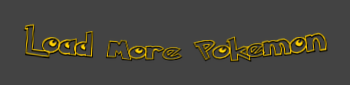
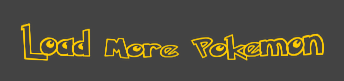
new loade more buttom

Changed region(s): [[0.0581, 0.2716, 0.5233, 0.7654], [0.5523, 0.3704, 0.9593, 0.7407]]

diff --git a/script.js b/script.js
@@ -9,24 +9,17 @@ let singleBaseStats = [];
 
 async function loadPokemon() {
     for (let i = firstPokemon; i <= lastPokemon; i++) {
-
         let url = `https://pokeapi.co/api/v2/pokemon/${i}`;
-        // let url = 'https://pokeapi.co/api/v2/pokemon/charmeleon';
-        // let url = 'https://pokeapi.co/api/v2/pokemon/charizard';
-
         let response = await fetch(url);
         currentPokemon = await response.json();
         allPokemons.push(currentPokemon);
-        console.log('Loaded pokemon', currentPokemon);
     }
     renderPokemonInfo();
 }
 
-
 function renderPokemonInfo() {
     for (let j = 0; j < allPokemons.length; j++) {
         createCard(j);
-
         document.getElementById(`pokeName${j}`).innerHTML = allPokemons[j]['name'].charAt(0).toUpperCase() + allPokemons[j]['name'].slice(1);
         document.getElementById(`pokeimg${j}`).src = allPokemons[j]['sprites']['other']['official-artwork']['front_default'];
         document.getElementById(`pokeNumber${j}`).innerHTML = '# ' + allPokemons[j]['id'];
@@ -34,14 +27,11 @@ function renderPokemonInfo() {
         if (allPokemons[j]['types'].length === 2) {
             document.getElementById(`types${j}`).innerHTML += /*html*/ `<p class="type" id="type2_${j}"></p>`;
             document.getElementById(`type2_${j}`).innerHTML = allPokemons[j]['types'][1]['type']['name'].charAt(0).toUpperCase() + allPokemons[j]['types'][1]['type']['name'].slice(1);
-
         }
         typeColors(j);
-
     }
     closeLoadingScreen();
 }
-
 
 function singlePokemon(j) {
     const selectedPokemon = allPokemons[j];
@@ -58,29 +48,23 @@ function renderSinglePokemon(j) {
         document.getElementById(`singlePokeName`).innerHTML = allPokemons[j]['name'].charAt(0).toUpperCase() + allPokemons[j]['name'].slice(1);
         document.getElementById(`singlePokeimg`).src = allPokemons[j]['sprites']['other']['official-artwork']['front_default'];
         document.getElementById(`singlePokeNumber`).innerHTML = '# ' + allPokemons[j]['id'];
-
         document.getElementById(`singleType`).innerHTML = allPokemons[j]['types'][0]['type']['name'].charAt(0).toUpperCase() + allPokemons[j]['types'][0]['type']['name'].slice(1);
         singleTypeColors(j, 'singlePokedex', 'singleType');
-
         if (allPokemons[j]['types'].length === 2) {
             document.getElementById(`singleTypes`).innerHTML += /*html*/ `<p class="singleType" id="singleType2"></p>`;
             document.getElementById(`singleType2`).innerHTML = allPokemons[j]['types'][1]['type']['name'].charAt(0).toUpperCase() + allPokemons[j]['types'][1]['type']['name'].slice(1);
             singleTypeColors(j, 'singlePokedex', 'singleType2');
         }
-
         let frontShinyPath = allPokemons[j]['sprites']['other']['official-artwork']['front_shiny'];
         shinyImg.push(frontShinyPath);
-
         let frontNormalPath = allPokemons[j]['sprites']['other']['official-artwork']['front_default'];
         normalImg.push(frontNormalPath);
-
         let baseStats = allPokemons[j]['stats'];
         singleBaseStats.push(baseStats);
     } else {
         document.getElementById(`singlePokeName`).innerHTML = searchPokemon[j]['name'].charAt(0).toUpperCase() + searchPokemon[j]['name'].slice(1);
         document.getElementById(`singlePokeimg`).src = searchPokemon[j]['sprites']['other']['official-artwork']['front_default'];
         document.getElementById(`singlePokeNumber`).innerHTML = '# ' + searchPokemon[j]['id'];
-
         document.getElementById(`singleType`).innerHTML = searchPokemon[j]['types'][0]['type']['name'].charAt(0).toUpperCase() + searchPokemon[j]['types'][0]['type']['name'].slice(1);
         singleTypeColors(j, 'singlePokedex', 'singleType');
 
@@ -89,13 +73,10 @@ function renderSinglePokemon(j) {
             document.getElementById(`singleType2`).innerHTML = searchPokemon[j]['types'][1]['type']['name'].charAt(0).toUpperCase() + searchPokemon[j]['types'][1]['type']['name'].slice(1);
             singleTypeColors(j, 'singlePokedex', 'singleType2');
         }
-
         let frontShinyPath = searchPokemon[j]['sprites']['other']['official-artwork']['front_shiny'];
         shinyImg.push(frontShinyPath);
-
         let frontNormalPath = searchPokemon[j]['sprites']['other']['official-artwork']['front_default'];
         normalImg.push(frontNormalPath);
-
         let baseStats = searchPokemon[j]['stats'];
         singleBaseStats.push(baseStats);
     }
@@ -107,20 +88,17 @@ function renderInfoAbout(j) {
     document.getElementById(`weight`).innerHTML = allPokemons[j]['weight'];
     document.getElementById(`abiOne`).innerHTML = allPokemons[j]['abilities'][0]['ability']['name'];
     document.getElementById(`abiTwo`).innerHTML = allPokemons[j]['abilities'][1]['ability']['name'];
-
 }
 
 function imgChange() {
     let pokemonImg = document.getElementById(`singlePokeimg`);
     let currentSrc = pokemonImg.src;
-
     if (normalImg.includes(currentSrc)) {
         pokemonImg.src = shinyImg[0];
     } else if (shinyImg.includes(currentSrc)) {
         pokemonImg.src = normalImg[0];
     }
 }
-
 
 function closeCard() {
     document.getElementById('single-card').classList.add("d-none");
@@ -144,9 +122,7 @@ async function loadMorePokemon() {
     firstPokemon += lastPokemon;
     let numberOfPokemonToLoad = 30;
     lastPokemon = numberOfPokemonToLoad;
-
     await pokemonFetchLoadMore(numberOfPokemonToLoad);
-
 }
 
 async function pokemonFetchLoadMore(numberOfPokemonToLoad) {
@@ -155,13 +131,11 @@ async function pokemonFetchLoadMore(numberOfPokemonToLoad) {
         let singleResponse = await fetch(singleUrl);
         let singleResponseAsJson = await singleResponse.json();
         allPokemons.push(singleResponseAsJson);
-
         console.log('Loaded pokemon', currentPokemon);
     }
     document.getElementById("allPokemons").innerHTML = "";
     renderPokemonInfo();
 }
-
 
 function searchNumber() {
     let searchTermNumber = document.getElementById("searchNumber").value
@@ -175,6 +149,7 @@ function searchNumber() {
         renderPokemonInfo();
     }
 }
+
 function searchName() {
     let searchTermName = document.getElementById("searchName").value
     let loadMoreField = document.getElementById("load-more-field")
@@ -201,10 +176,8 @@ function searchSinglePokemonNumber() {
         if (searchPokemon[j]['types'].length === 2) {
             document.getElementById(`types${j}`).innerHTML += /*html*/ `<p class="type" id="type2_${j}"></p>`;
             document.getElementById(`type2_${j}`).innerHTML = searchPokemon[j]['types'][1]['type']['name'].charAt(0).toUpperCase() + searchPokemon[j]['types'][1]['type']['name'].slice(1);
-
         }
         typeColors(j);
-
     }
     closeLoadingScreen();
 }

diff --git a/style.css b/style.css
@@ -345,3 +345,9 @@ nav {
     margin-bottom: 30px;
     cursor: pointer;
   }
+  
+  @media (max-width:400px)  {
+    
+
+
+  }
